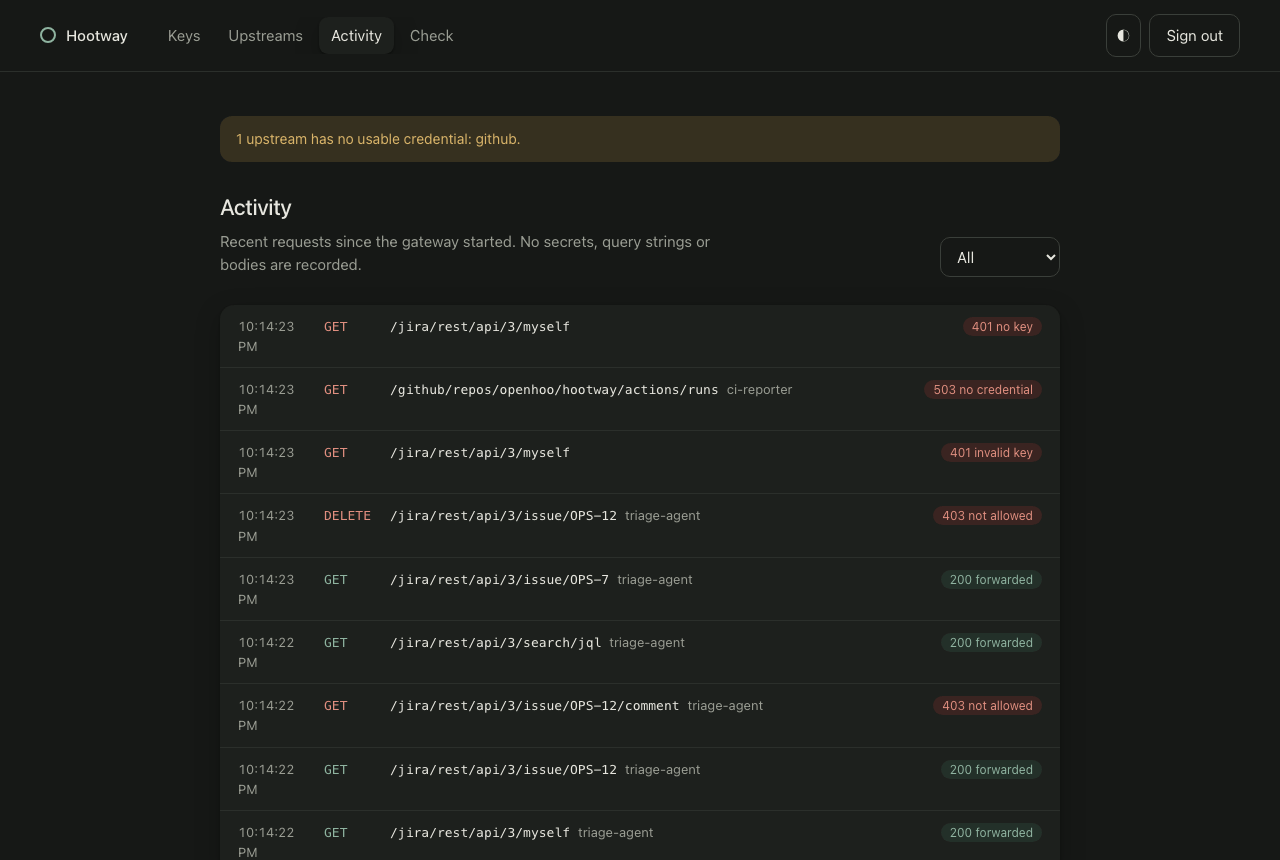
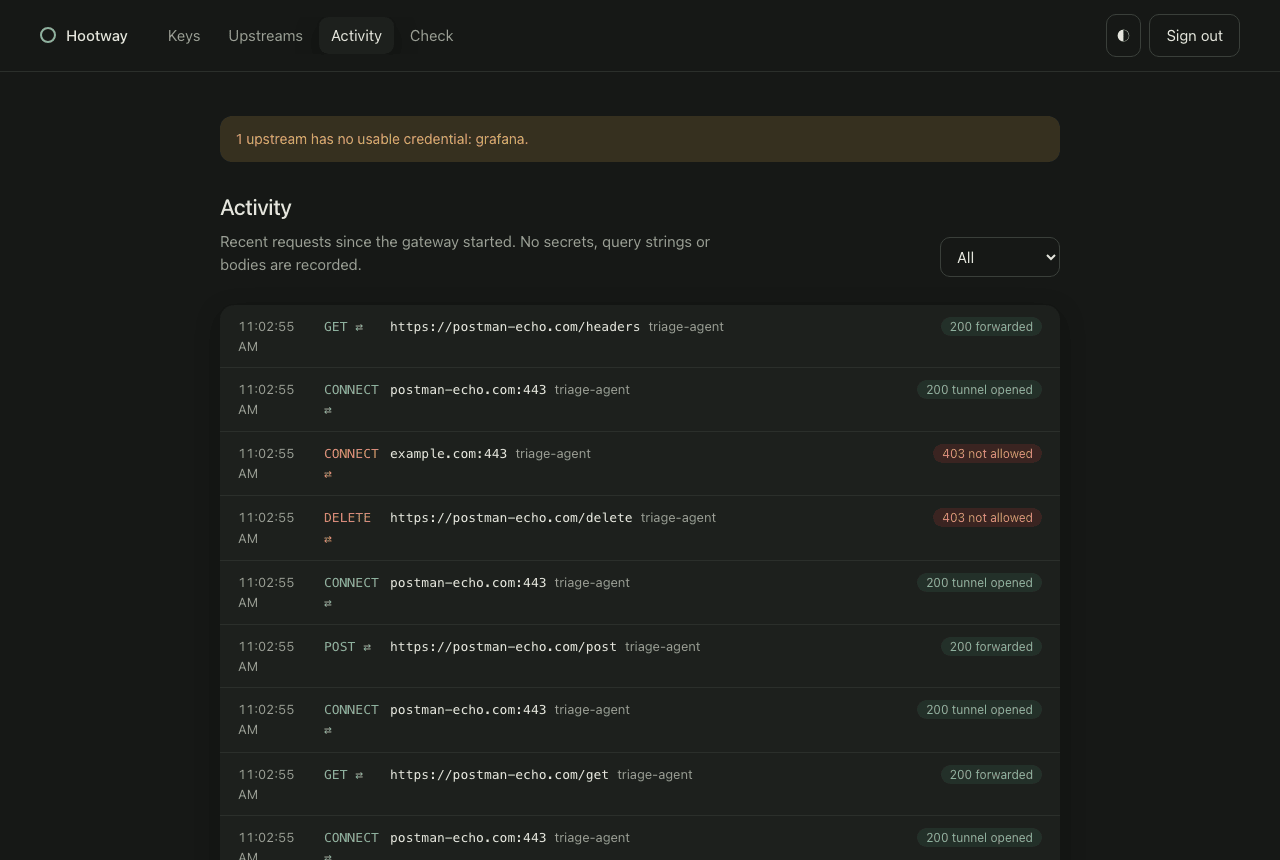
docs: proxy-mode screenshots; accessible proxy marker in Activity
- Refresh console screenshots with proxy-mode traffic and outbound routes,
  add the upstream outbound-proxy dialog, convert two JPEG-in-.png files to
  real PNGs and recompress all screenshots.
- Activity announces proxied requests as 'via proxy' to screen readers
  instead of reading the arrow glyph.

diff --git a/internal/gateway/web/app.js b/internal/gateway/web/app.js
@@ -491,7 +491,8 @@ function renderEvents() {
     const ok = e.outcome === "forwarded" || e.outcome === "tunnel";
     return el("div", { class: "ev" + (ok ? "" : " denied") },
       el("span", { class: "t" }, new Date(e.time).toLocaleTimeString()),
-      el("span", { class: "m", title: e.proxy ? "via proxy" : null }, e.method + (e.proxy ? " ⇄" : "")),
+      el("span", { class: "m", title: e.proxy ? "via proxy" : null }, e.method,
+        e.proxy ? el("span", { "aria-hidden": "true" }, " ⇄") : null, e.proxy ? el("span", { class: "sr-only" }, " via proxy") : null),
       el("span", { class: "p" }, e.path, e.key ? el("span", { class: "k" }, e.key) : null),
       el("span", { class: "o" }, el("span", { class: "pill" + (ok ? "" : e.outcome === "upstream_error" ? " warn" : " bad") },
         `${e.status} ${outcomeText[e.outcome] || e.outcome}`)));

diff --git a/internal/gateway/web/app.css b/internal/gateway/web/app.css
@@ -254,3 +254,4 @@ a.button.primary:hover { filter: brightness(1.06); }
   .grant.fixed .g-paths { grid-column: 1 / -1; }
   .steps > li { padding-left: 38px; }
 }
+.sr-only { position: absolute; width: 1px; height: 1px; padding: 0; margin: -1px; overflow: hidden; clip: rect(0 0 0 0); white-space: nowrap; border: 0; }

diff --git a/README.md b/README.md
@@ -93,7 +93,11 @@ without a restart. Light and dark themes follow the system and can be toggled.
 
 | Activity (dark) | Mobile |
 | --- | --- |
-| ![Activity](docs/screenshots/activity-dark.png) | ![Mobile](docs/screenshots/mobile-dark.png) |
+| ![Activity with gateway and proxy requests](docs/screenshots/activity-dark.png) | ![Mobile](docs/screenshots/mobile-dark.png) |
+
+| Upstreams with outbound routes | Upstream outbound proxy |
+| --- | --- |
+| ![Upstreams](docs/screenshots/upstreams.png) | ![Outbound proxy setting](docs/screenshots/upstream-proxy.png) |
 
 "Test connection" sends one `GET` with the credential to the service's
 "current user" endpoint and reports only the status; no response body is
